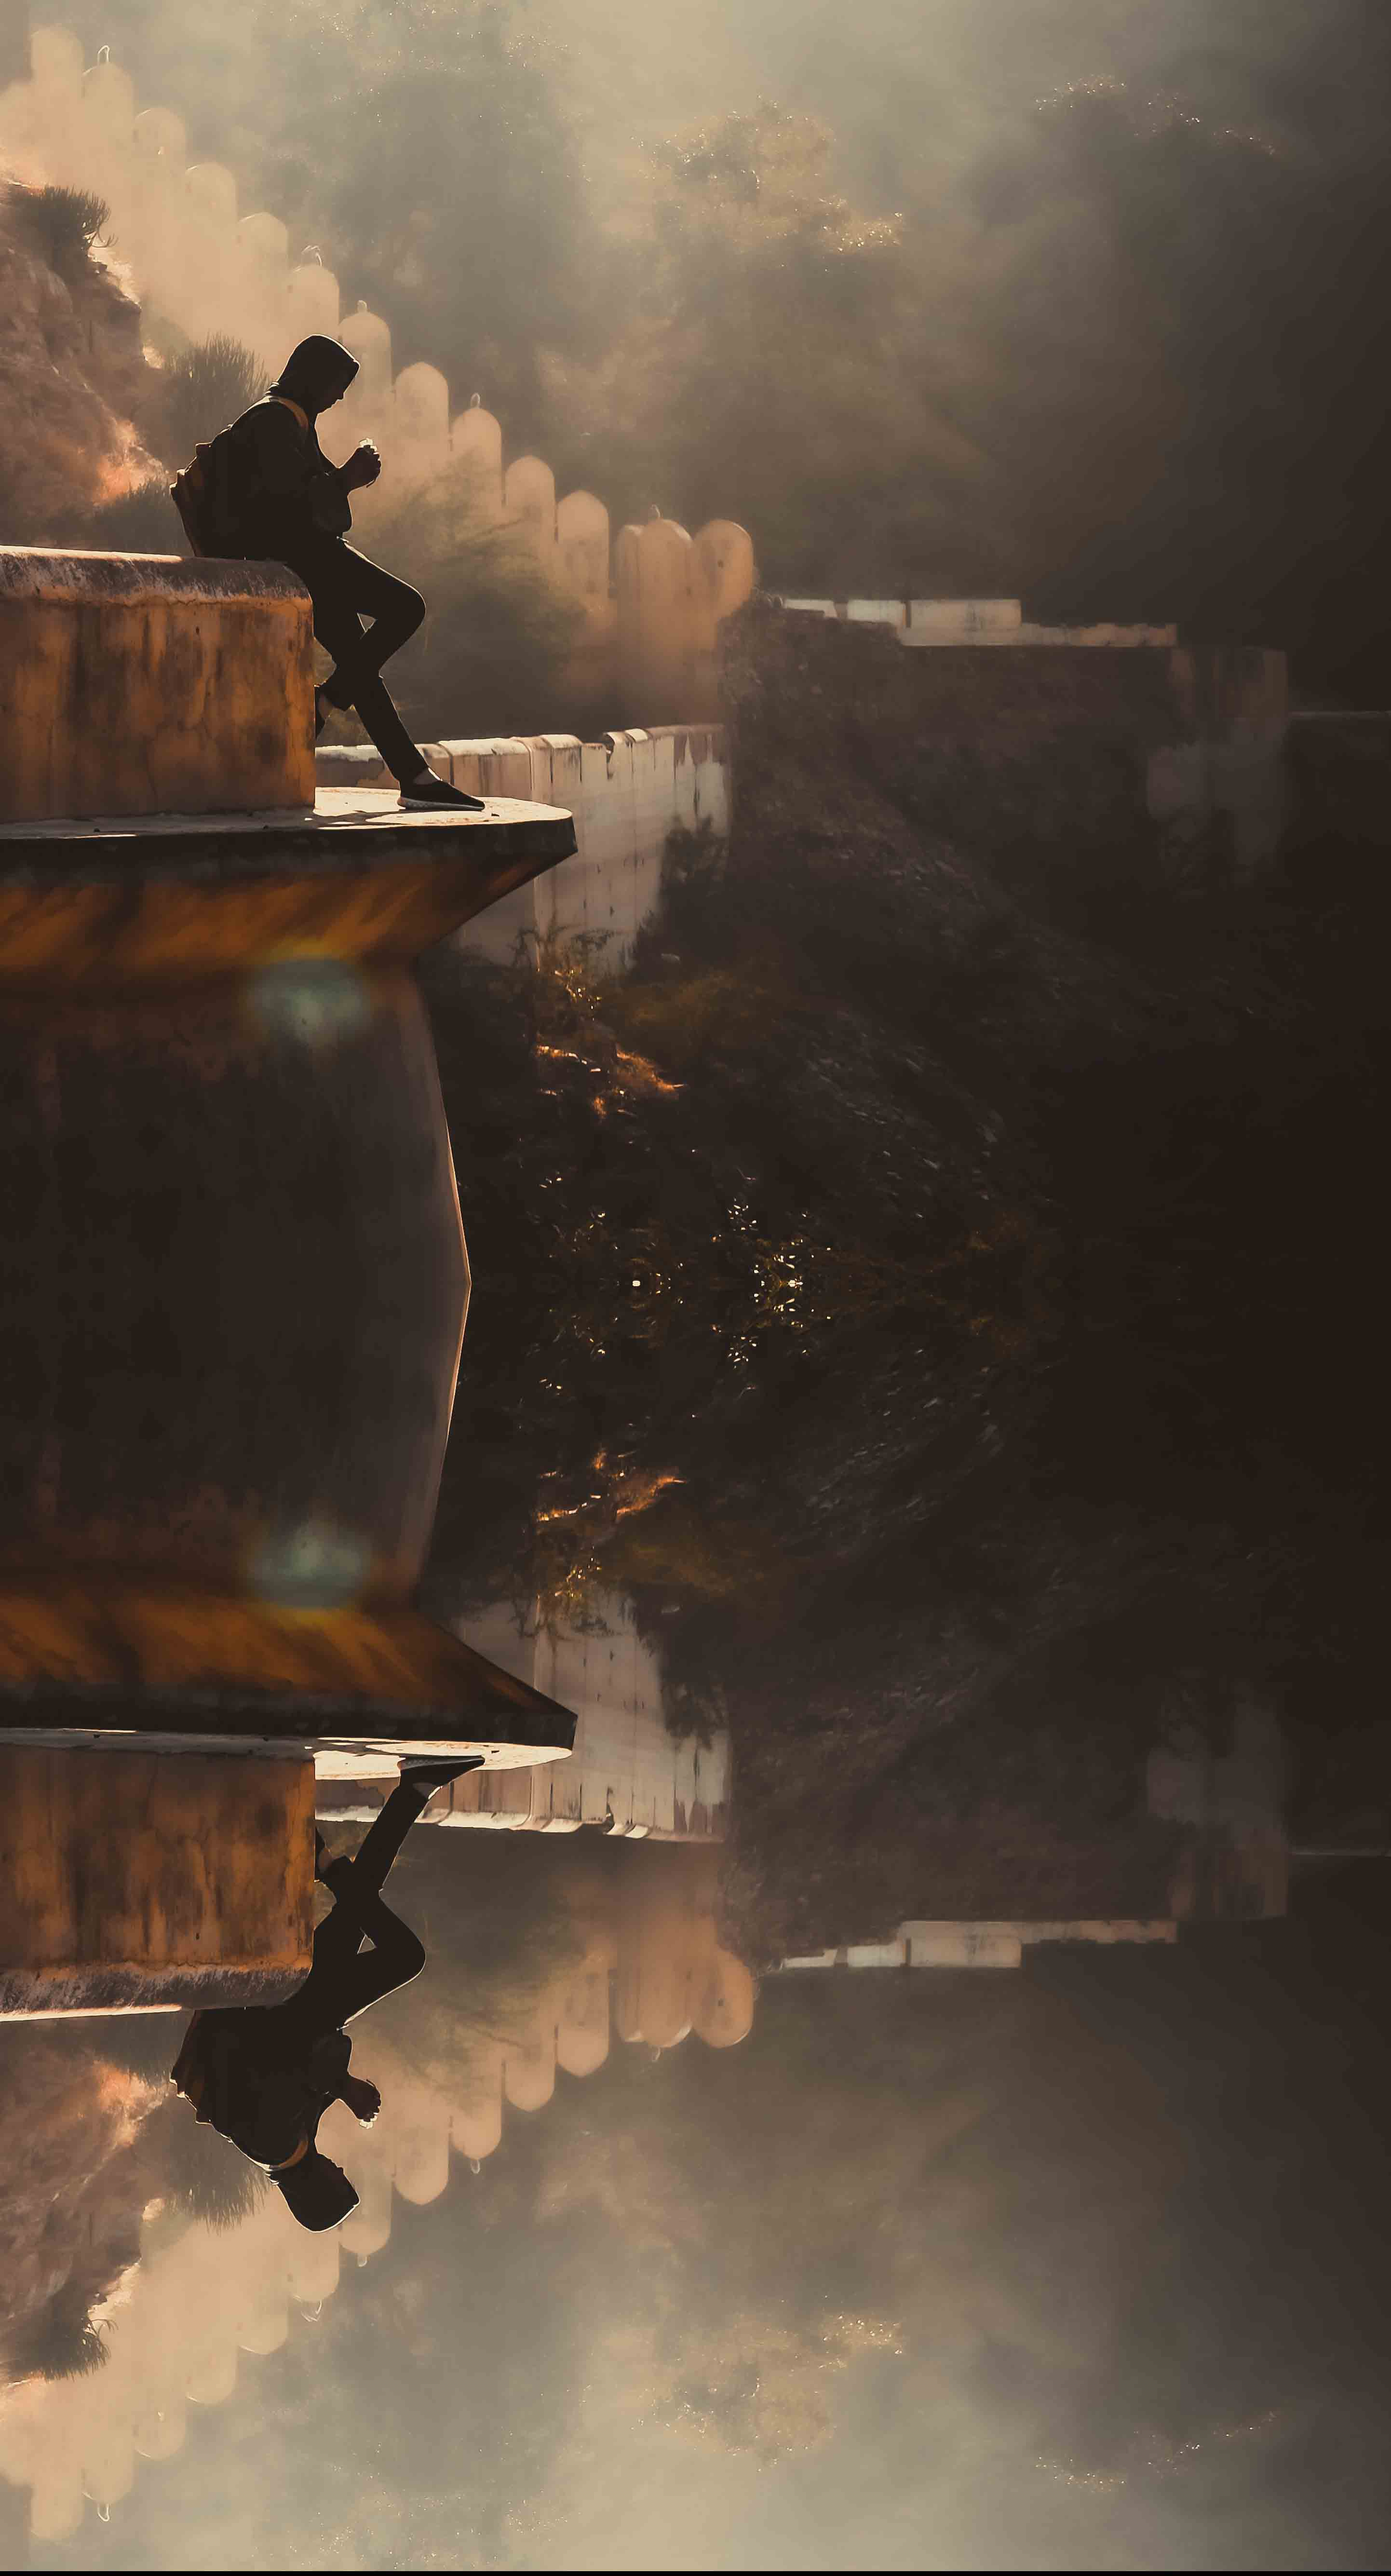
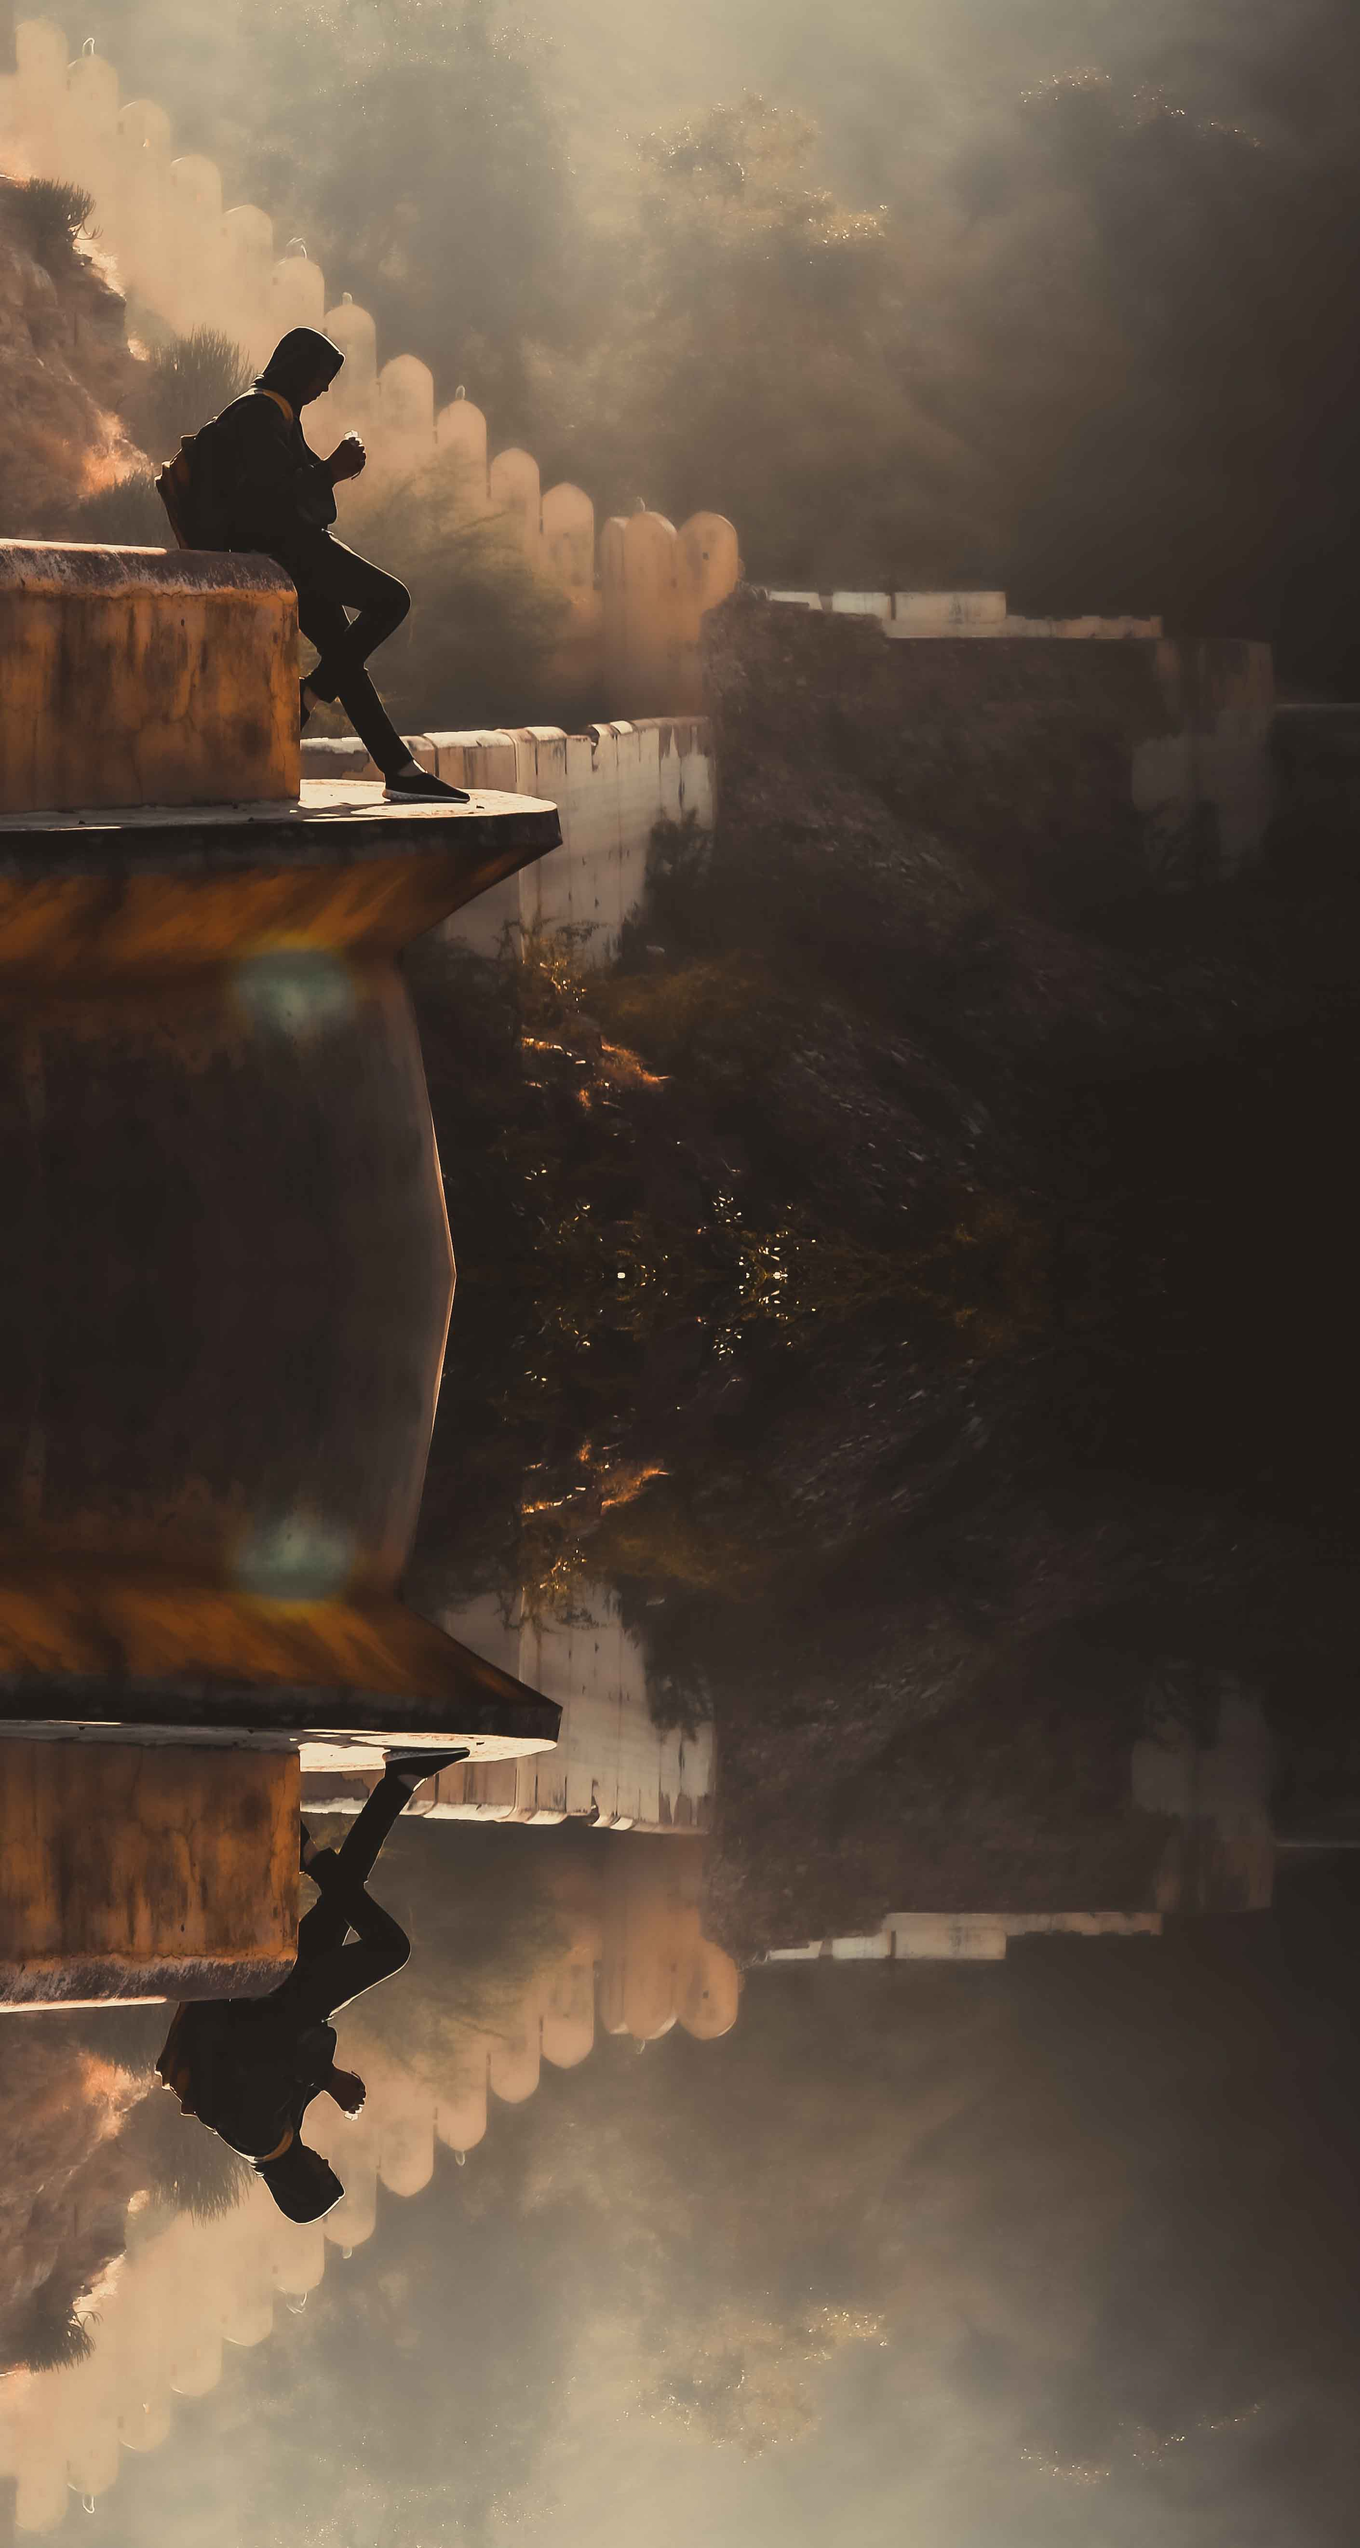
Background image

diff --git a/.history/css/main_20221104002844.scss b/.history/css/main_20221104002844.scss
@@ -65,13 +65,13 @@ html {
 }
 
 body {
-  position: relative;
+  // position: relative;
   background-color: var(--color-black-90);
   background-image: url(../images/bg-img.jpg);
-  background-size: 100%;
+  background-size: 130%;
   // background-repeat: no-repeat;
-  // background-position-x: -80px;
-  // background-position-y: 10px;
+  background-position-x: -80px;
+  // background-position-y: -20px;
   color: var(--color-white);
   height: 100vh;
 }

diff --git a/.history/css/main_20221104002852.scss b/.history/css/main_20221104002852.scss
@@ -65,13 +65,13 @@ html {
 }
 
 body {
-  position: relative;
+  // position: relative;
   background-color: var(--color-black-90);
   background-image: url(../images/bg-img.jpg);
-  background-size: 100%;
+  background-size: cover;
   // background-repeat: no-repeat;
   // background-position-x: -80px;
-  // background-position-y: 10px;
+  // background-position-y: -20px;
   color: var(--color-white);
   height: 100vh;
 }

diff --git a/.history/css/main_20221104002854.scss b/.history/css/main_20221104002854.scss
@@ -65,13 +65,13 @@ html {
 }
 
 body {
-  position: relative;
+  // position: relative;
   background-color: var(--color-black-90);
   background-image: url(../images/bg-img.jpg);
-  background-size: 100%;
+  background-size: cover;
   // background-repeat: no-repeat;
   // background-position-x: -80px;
-  // background-position-y: 10px;
+  // background-position-y: -20px;
   color: var(--color-white);
   height: 100vh;
 }

diff --git a/.history/css/main_20221104002845.scss b/.history/css/main_20221104002845.scss
@@ -65,13 +65,13 @@ html {
 }
 
 body {
-  position: relative;
+  // position: relative;
   background-color: var(--color-black-90);
   background-image: url(../images/bg-img.jpg);
-  background-size: 100%;
+  background-size: 130%;
   // background-repeat: no-repeat;
   // background-position-x: -80px;
-  // background-position-y: 10px;
+  // background-position-y: -20px;
   color: var(--color-white);
   height: 100vh;
 }

diff --git a/.history/css/main_20221104002858.scss b/.history/css/main_20221104002858.scss
@@ -68,10 +68,10 @@ body {
   position: relative;
   background-color: var(--color-black-90);
   background-image: url(../images/bg-img.jpg);
-  background-size: 100%;
+  background-size: cover;
   // background-repeat: no-repeat;
   // background-position-x: -80px;
-  // background-position-y: 10px;
+  // background-position-y: -20px;
   color: var(--color-white);
   height: 100vh;
 }

diff --git a/.history/css/main_20221104002925.scss b/.history/css/main_20221104002925.scss
@@ -68,10 +68,10 @@ body {
   position: relative;
   background-color: var(--color-black-90);
   background-image: url(../images/bg-img.jpg);
-  background-size: 100%;
+  background-size: cover;
   // background-repeat: no-repeat;
   // background-position-x: -80px;
-  // background-position-y: 10px;
+  background-position-y: -20px;
   color: var(--color-white);
   height: 100vh;
 }

diff --git a/.history/css/main_20221104002931.scss b/.history/css/main_20221104002931.scss
@@ -68,10 +68,10 @@ body {
   position: relative;
   background-color: var(--color-black-90);
   background-image: url(../images/bg-img.jpg);
-  background-size: 100%;
+  background-size: cover;
   // background-repeat: no-repeat;
   // background-position-x: -80px;
-  // background-position-y: 10px;
+  background-position-y: 20px;
   color: var(--color-white);
   height: 100vh;
 }

diff --git a/.history/css/main_20221104002943.scss b/.history/css/main_20221104002943.scss
@@ -68,10 +68,10 @@ body {
   position: relative;
   background-color: var(--color-black-90);
   background-image: url(../images/bg-img.jpg);
-  background-size: 100%;
+  background-size: cover;
   // background-repeat: no-repeat;
   // background-position-x: -80px;
-  // background-position-y: 10px;
+  background-position-y: 10px;
   color: var(--color-white);
   height: 100vh;
 }

diff --git a/css/main.css b/css/main.css
@@ -60,11 +60,10 @@ html {
 }
 
 body {
+  position: relative;
   background-color: var(--color-black-90);
   background-image: url(../images/bg-img.jpg);
-  background-size: 130%;
-  background-position-x: -80px;
-  background-position-y: -20px;
+  background-size: 100%;
   color: var(--color-white);
   height: 100vh;
 }

diff --git a/.history/css/main_20221104003005.scss b/.history/css/main_20221104003005.scss
@@ -71,7 +71,7 @@ body {
   background-size: 100%;
   // background-repeat: no-repeat;
   // background-position-x: -80px;
-  // background-position-y: 10px;
+  background-position-y: 10px;
   color: var(--color-white);
   height: 100vh;
 }
